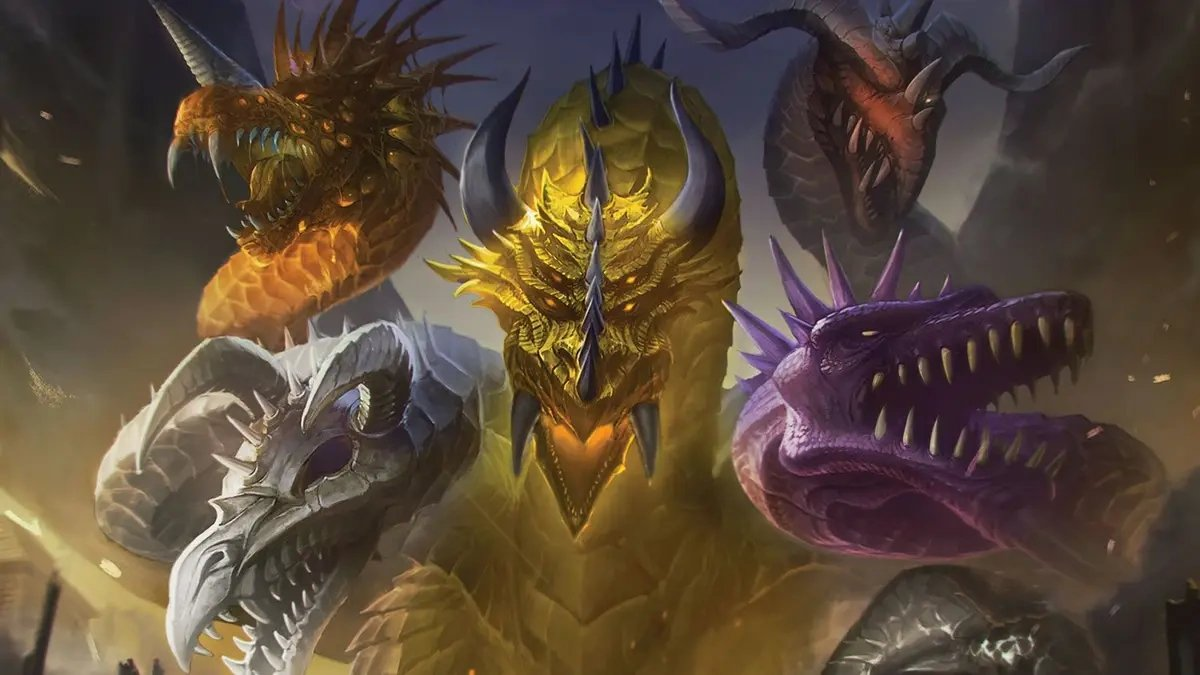
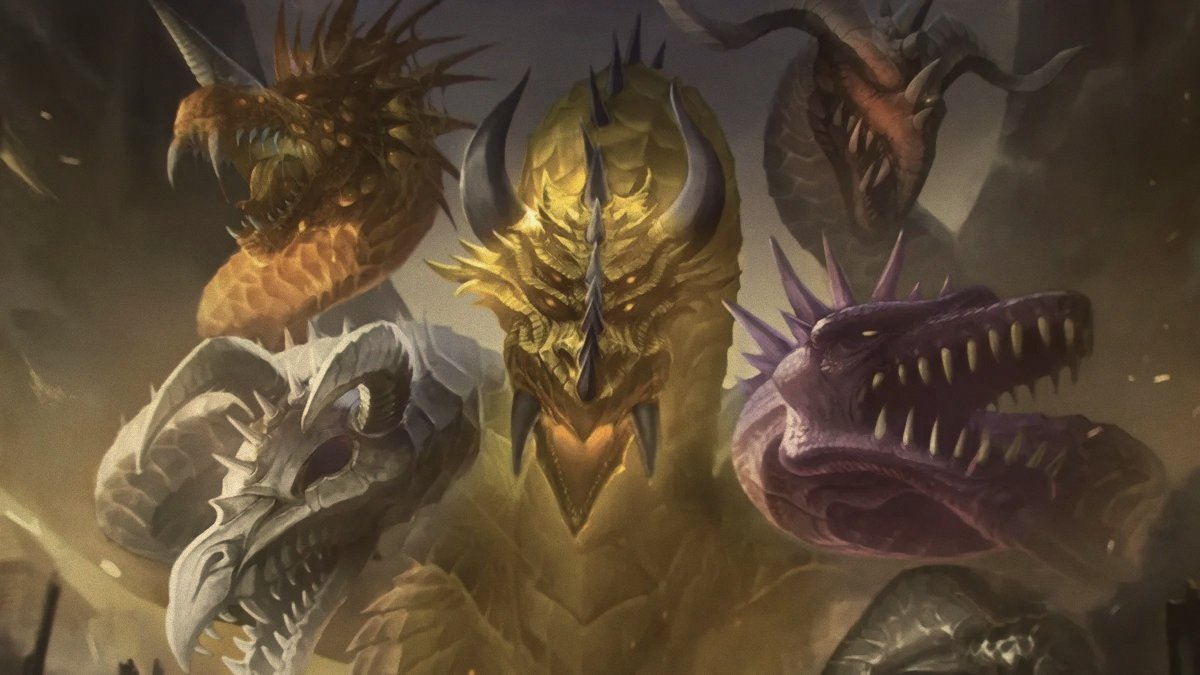
Colour-grade the two official-art pieces to match the paintings
Apply a light "paintify" grade (mute saturation, warm varnish tone,
median+blur painterly softening, fine grain, gentle vignette) to the two
© WizKids pieces (Against the Dragon, Volkare's Return) so they sit with the
oil-painting slate instead of reading as crisp digital illustration. Noted in
the scenario-art README.

Claude-Session: https://claude.ai/code/session_01GxJGENoyPd1RSQYm9Hc5Gg

diff --git a/app/src/main/assets/scenario-art/README.md b/app/src/main/assets/scenario-art/README.md
@@ -35,7 +35,8 @@ avoided by default (cropping/scrim makes an adaptation that must carry ShareAlik
 
 **Two knowing exceptions** reuse official © WizKids *Mage Knight* art — *Against the Dragon*
 (Apocalypse Dragon) and *Volkare's Return* (Lost Legion) — where no clean image reads as
-unambiguously as the real antagonist. These are marked `license = OFFICIAL` and fall under ADR-0010's
+unambiguously as the real antagonist. Both are lightly colour-graded (muted, warmed, softened, with
+a little grain) so they sit alongside the painted set. These are marked `license = OFFICIAL` and fall under ADR-0010's
 risk-accepted stance (attribution + non-affiliation disclaimer in Settings → Credits), not the clean
 scope above. Verify each image's licence at its `sourceUrl` before adding it.
 
